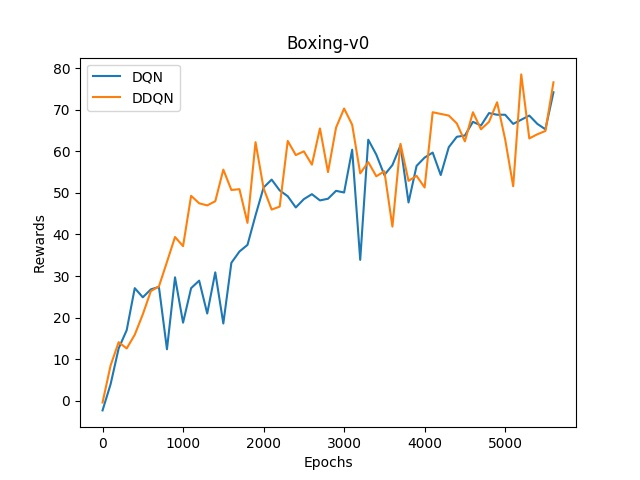
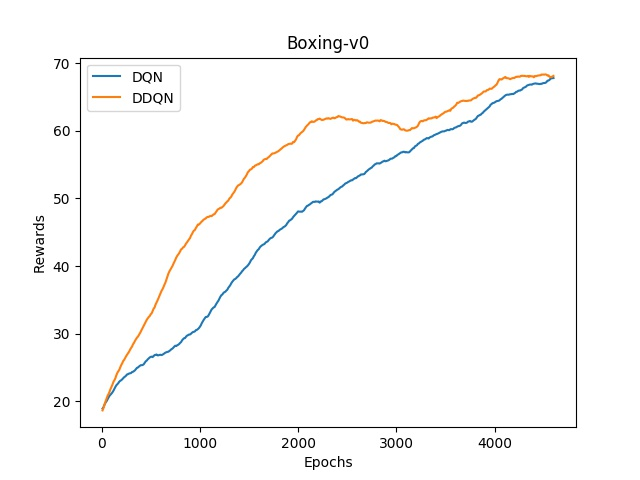
upd

diff --git a/p3_dqn.py b/p3_dqn.py
@@ -21,15 +21,22 @@ for name in ['dqn_gamma_boxing_0.99.log', 'dqn_gamma_DDQN_boxing_0.99.log']:
         mean = su / (i + 1)
     print(ci)
     '''
+    a1, a2 = [], []
+    for _ in range(len(epochs) - 100):
+        a1.append((_ + 1) * 10)
+        a2.append(sum(rewards[_:_+100]) / 100)
+    print(len(a1), len(a2))
     if 'DDQN' in name:
         '''
         for i, re in enumerate(rewards):
             if i > 0:
                 rewards[i] = np.clip(rewards[i], rewards[i - 1] - 8, rewards[i - 1] + 8)
         '''
-        plt.plot(epochs[:566:10], rewards[:566:10], label='DDQN')
+        #plt.plot(epochs[:566:10], rewards[:566:10], label='DDQN')
+        plt.plot(a1[:460], a2[:460], label='DDQN')
     else:
-        plt.plot(epochs[:566:10], rewards[:566:10], label='DQN')
+        #plt.plot(epochs[:566:10], rewards[:566:10], label='DQN')
+        plt.plot(a1[:460], a2[:460], label='DQN')
 plt.legend()
 plt.title('Boxing-v0')
 plt.xlabel('Epochs')
